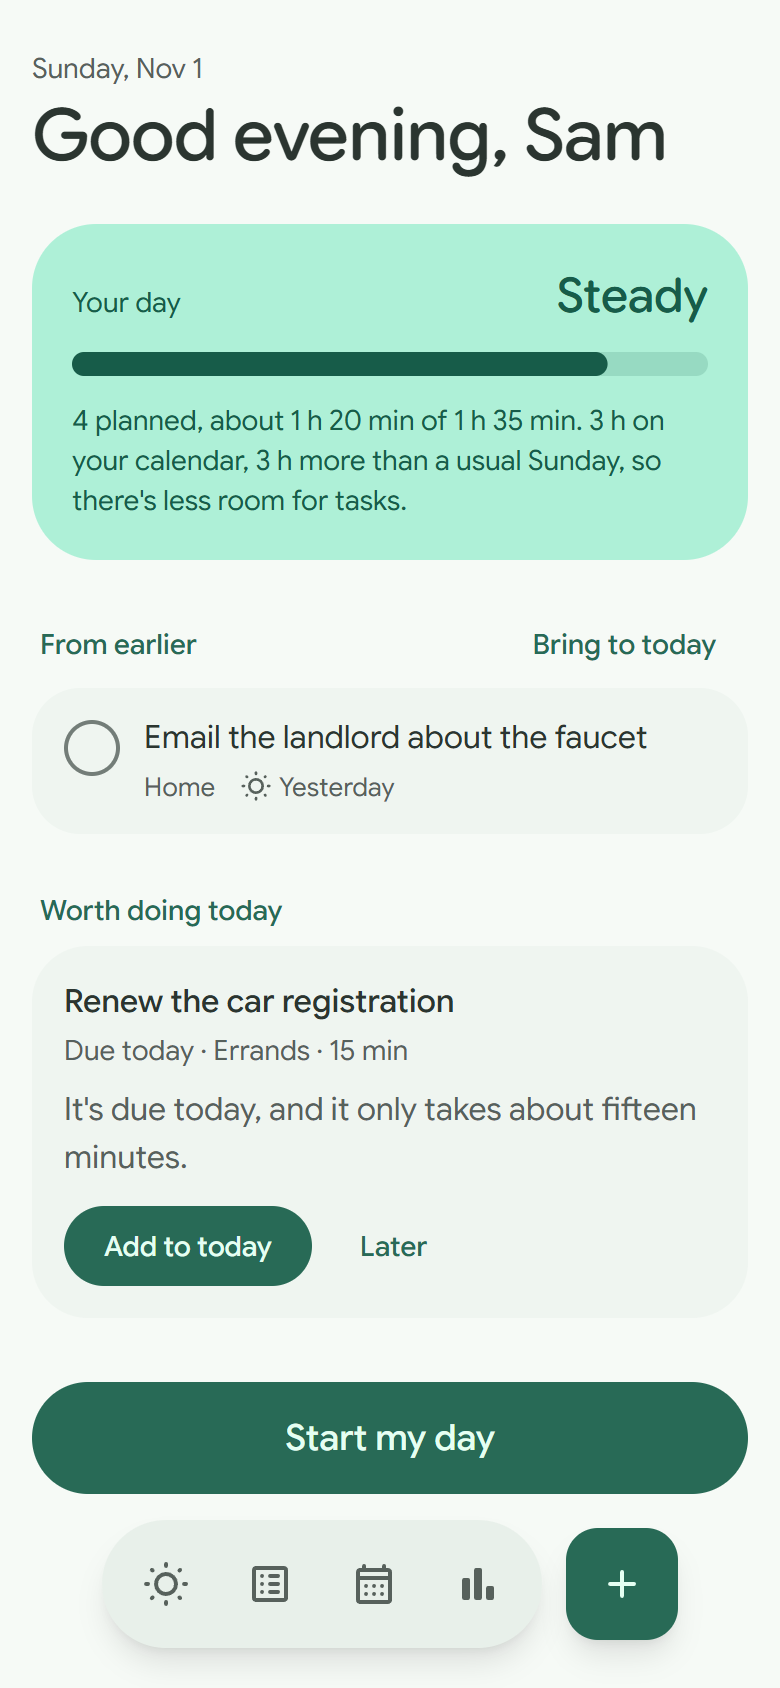
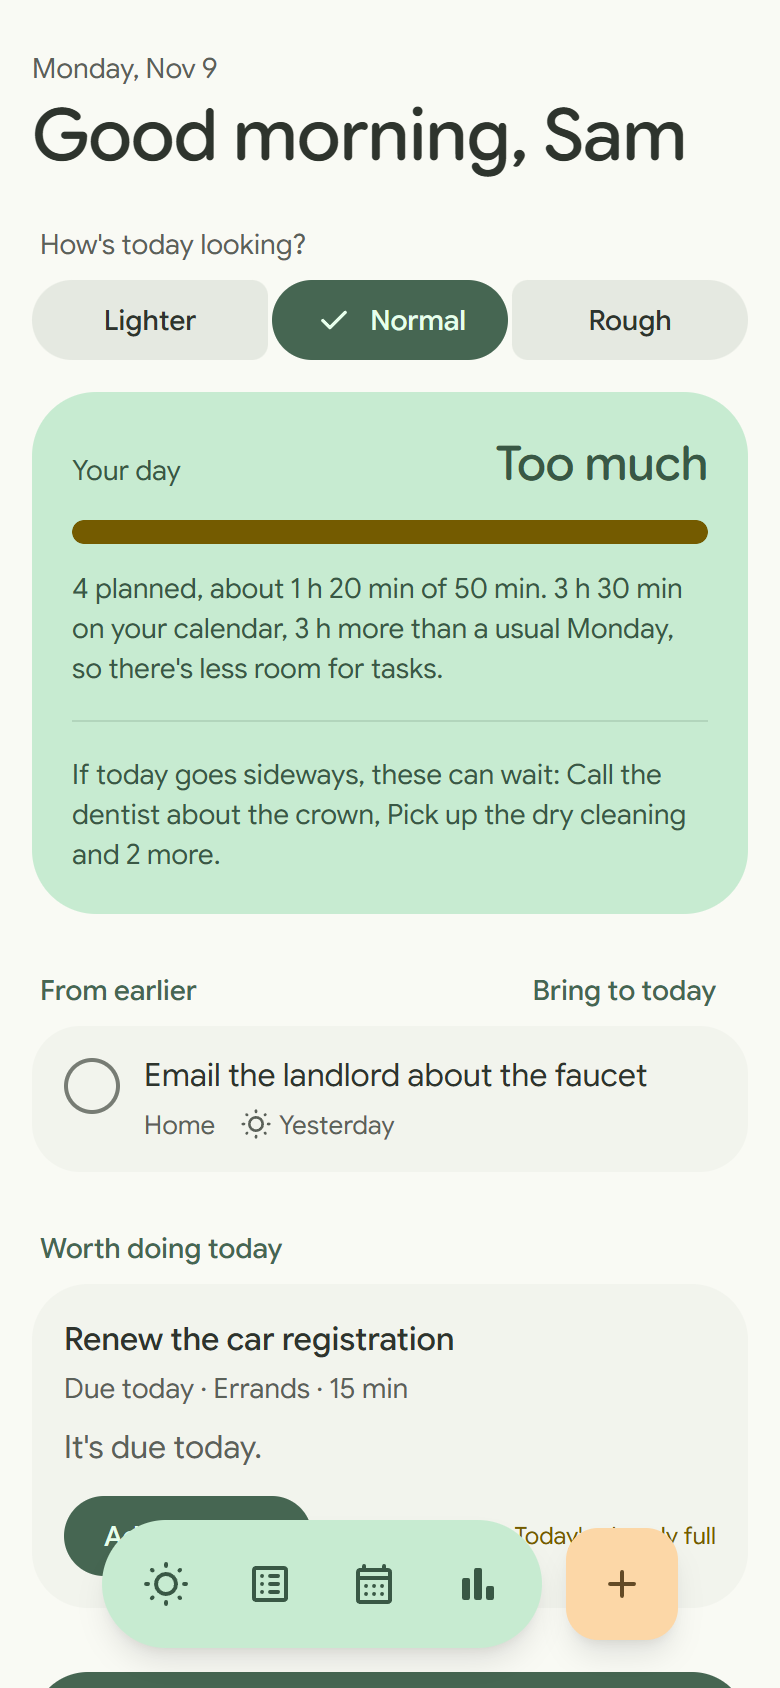
readme screenshots retaken with the new toolbar and theme colors, today's with the toolbar full size

diff --git a/scripts/readme-shots.ts b/scripts/readme-shots.ts
@@ -56,7 +56,11 @@ const shots: Shot[] = [
     // Scrolled to the day's list, below the load card and calendar; the listing's first shot shows the top.
     open: async (page) => {
       await go('/')(page);
-      if (!play) await page.getByRole('heading', { name: 'From earlier' }).evaluate((el) => window.scrollBy(0, el.getBoundingClientRect().top - 24));
+      if (play) return;
+      await page.getByRole('heading', { name: 'From earlier' }).evaluate((el) => window.scrollBy(0, el.getBoundingClientRect().top - 24));
+      // Scrolling down shrinks the toolbar out of the way (FloatingToolbar). The shot shows it full size.
+      await page.waitForTimeout(100);
+      await page.locator('.toolbar-body').evaluate((el) => el.removeAttribute('data-compact'));
     },
   },
   { name: 'calendar', theme: light, open: go('/calendar') },
